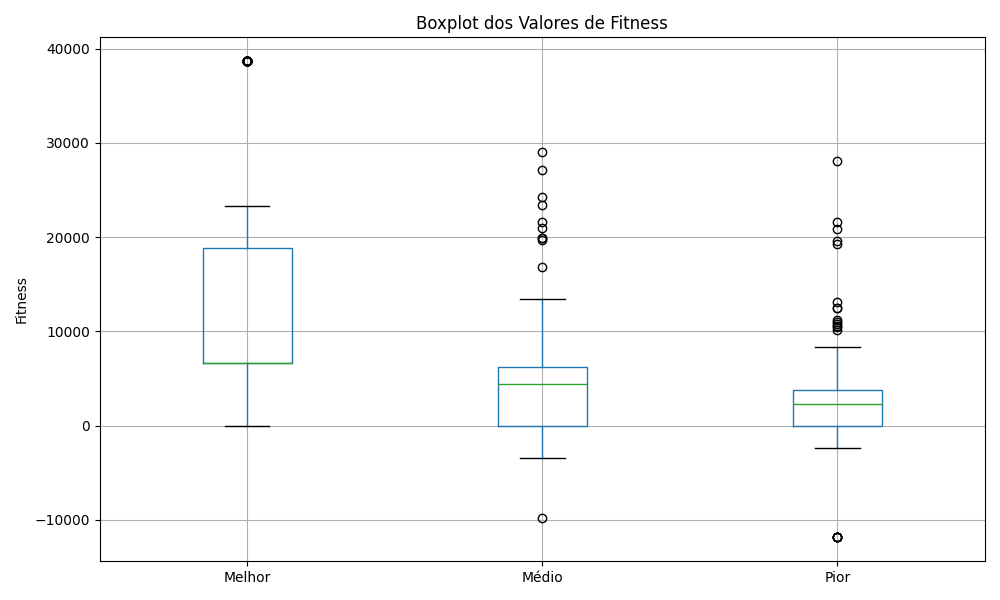
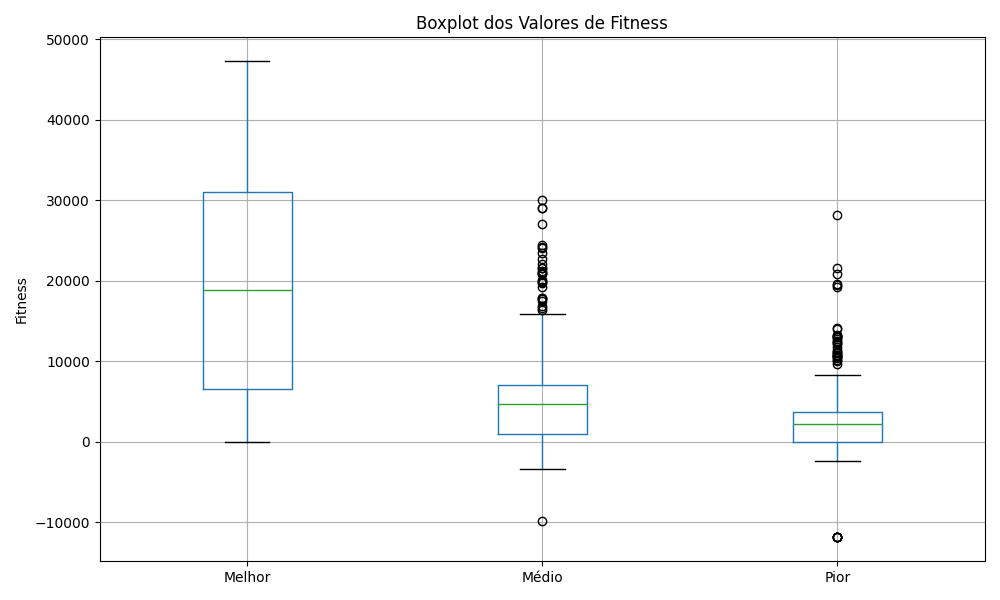
Teste 3 novo calculo

diff --git a/robo_exercicio.py b/robo_exercicio.py
@@ -1016,26 +1016,24 @@ class ProgramacaoGenetica:
                 if ambiente.verificar_atingir_meta(robo.x, robo.y, robo.raio):
                     fitness += 20000  # Bônus por atingir a meta
 
-                fitness += robo.energia * 80  # Energia como fator proporcional
-                fitness += passos * 10  # 10 pontos por frame onde o robô se move
+                fitness += robo.energia * 80  # Energia proporcional
+                fitness += passos * 15        # 15 pontos por frame onde o robô se move
 
-                # Penalizações (reduzidas)
-                fitness -= robo.colisoes * 500
-                fitness -= tempo_parado * 25
-                fitness -= tempo_sem_progresso * 50
-                fitness -= (recursos_iniciais - robo.recursos_coletados) * 1500
+                # Penalizações (ajustadas)
+                fitness -= robo.colisoes * 300
+                fitness -= tempo_parado * 15
+                fitness -= tempo_sem_progresso * 30
+                fitness -= (recursos_iniciais - robo.recursos_coletados) * 1000
 
-                # Penalizar distância até a meta (se não atingiu)
+                # Penalizar distância até a meta (mais suave)
                 if not ambiente.verificar_atingir_meta(robo.x, robo.y, robo.raio):
                     dist_final = np.sqrt((robo.x - objetivo['x'])**2 + (robo.y - objetivo['y'])**2)
-                    fitness -= dist_final * 5
+                    fitness -= dist_final * 2
 
                 # Garantir que o fitness não seja negativo
                 fitness = max(fitness, 0)
 
                 melhor_fitness = max(melhor_fitness, fitness)
-                
-                individuo.fitness = melhor_fitness
             
             # Atualizar melhor indivíduo
             if individuo.fitness > self.melhor_fitness:
